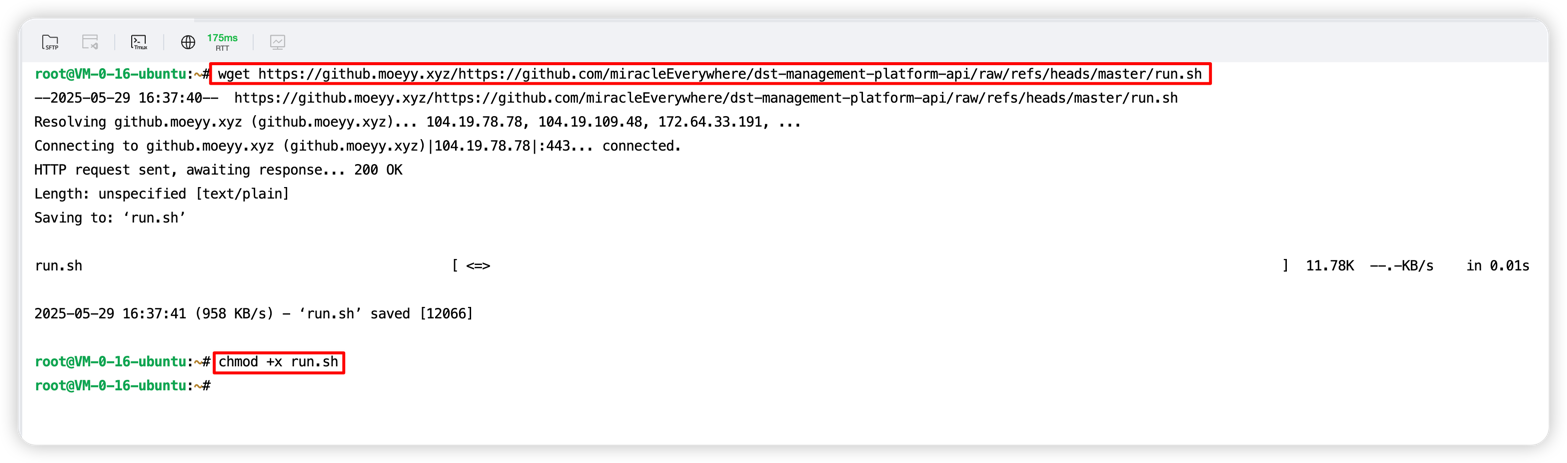
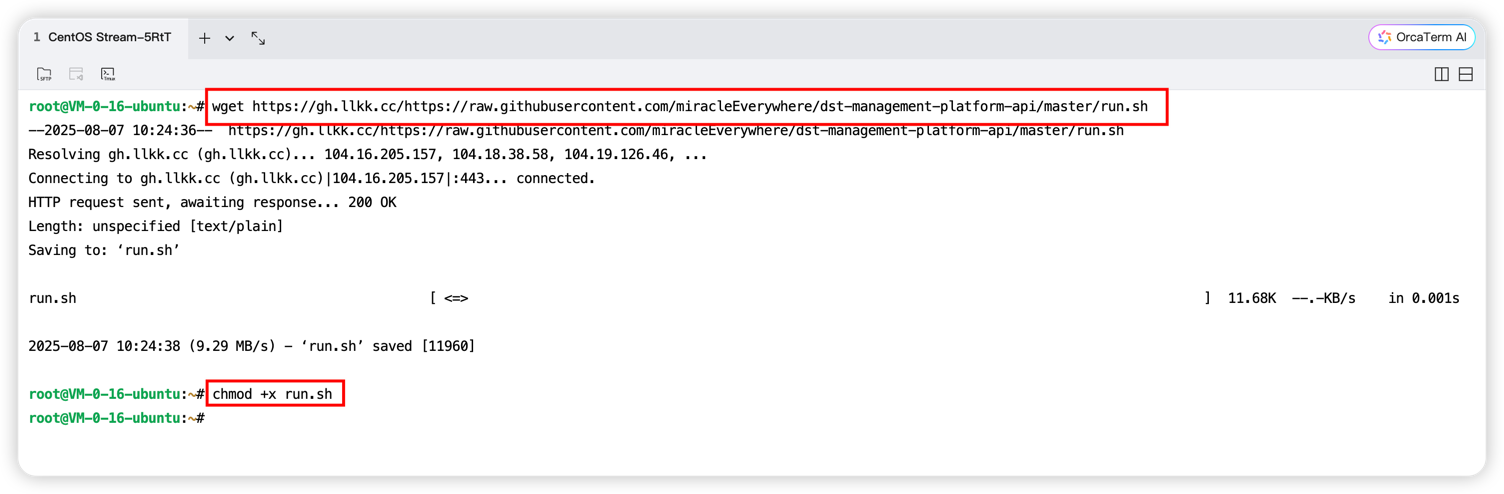
update

diff --git a/src/docs/install/bin.md b/src/docs/install/bin.md
@@ -16,8 +16,8 @@ date: 2025-06-04
 1. 复制下方命令到服务器终端并执行
 
 ```shell
-# 执行以下命令，下载脚本（不使用加速节点）
-cd ~ && wget https://github.com/miracleEverywhere/dst-management-platform-api/raw/refs/heads/master/run.sh && chmod +x run.sh
+# 执行以下命令，下载脚本（不使用加速节点，自带梯子）
+cd ~ && wget https://raw.githubusercontent.com/miracleEverywhere/dst-management-platform-api/master/run.sh && chmod +x run.sh
 ```
 
 如果下载失败，可以通过加速节点下载
@@ -26,8 +26,8 @@ cd ~ && wget https://github.com/miracleEverywhere/dst-management-platform-api/ra
 注意，加速节点可能会失效，如果出现无法下载的情况，前往 https://github.akams.cn 更换加速节点
 :::
 ```shell
-# 执行以下命令，下载脚本（使用加速节点）
-cd && rm -f run.sh && curl -o run.sh -L $(curl -s https://api.akams.cn/github | jq -r '.data[0].url')/https://github.com/miracleEverywhere/dst-management-platform-api/raw/refs/heads/master/run.sh && chmod +x run.sh && ./run.sh
+# 执行以下命令，下载脚本（使用加速节点）需要使用jq命令
+cd && rm -f run.sh && curl -o run.sh -L $(curl -s https://api.akams.cn/github | jq -r '.data[0].url')/https://raw.githubusercontent.com/miracleEverywhere/dst-management-platform-api/master/run.sh && chmod +x run.sh && ./run.sh
 ```
 
 ## 配置启动脚本(可选)
@@ -274,7 +274,7 @@ function update_script() {
     check_curl
     echo_cyan "正在更新脚本..."
     TEMP_FILE="/tmp/run.sh"
-    SCRIPT_GITHUB="https://github.com/miracleEverywhere/dst-management-platform-api/raw/refs/heads/master/run.sh"
+    SCRIPT_GITHUB="https://raw.githubusercontent.com/miracleEverywhere/dst-management-platform-api/master/run.sh"
     # 生成加速链接
     url="$(curl -s https://api.akams.cn/github | jq -r '.data[0].url')/${SCRIPT_GITHUB}"
     if download "${url}" "${TEMP_FILE}" 10; then
@@ -424,7 +424,6 @@ while true; do
         ;;
     esac
 done
-
 ```
 
 #### 修改启动端口

diff --git a/src/quick-start/install.md b/src/quick-start/install.md
@@ -18,8 +18,8 @@ date: 2025-05-28
 :::
 
 ```shell
-# 执行以下命令，下载脚本（使用加速节点）
-cd && rm -f run.sh && curl -o run.sh -L $(curl -s https://api.akams.cn/github | jq -r '.data[0].url')/https://github.com/miracleEverywhere/dst-management-platform-api/raw/refs/heads/master/run.sh && chmod +x run.sh && ./run.sh
+# 执行以下命令，下载脚本（使用加速节点）需要使用jq命令
+cd && rm -f run.sh && curl -o run.sh -L $(curl -s https://api.akams.cn/github | jq -r '.data[0].url')/https://raw.githubusercontent.com/miracleEverywhere/dst-management-platform-api/master/run.sh && chmod +x run.sh && ./run.sh
 ```
 
 ### 运行脚本
@@ -47,7 +47,11 @@ cd && rm -f run.sh && curl -o run.sh -L $(curl -s https://api.akams.cn/github | 
 
 ![加速站点](./assets/install/akams.png)
 
-3. `https://github.com/miracleEverywhere/dst-management-platform-api/raw/refs/heads/master/run.sh` 将这个网址复制到加速站点的输入框中
+3. `https://raw.githubusercontent.com/miracleEverywhere/dst-management-platform-api/master/run.sh` 将下方网址复制到加速站点的输入框中
+
+```text
+https://raw.githubusercontent.com/miracleEverywhere/dst-management-platform-api/master/run.sh
+```
 
 4. 选择 Wget & Curl 后，点击第一个复制
 
